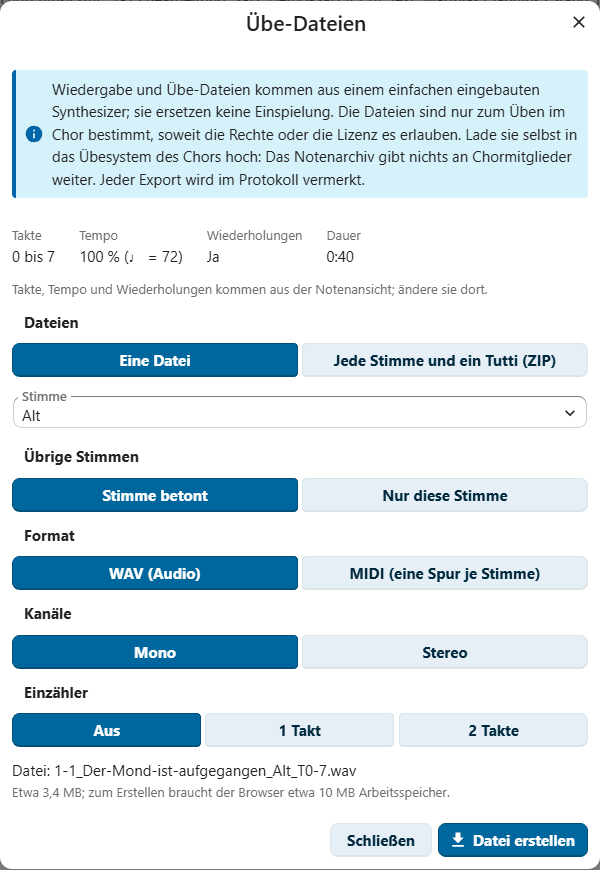
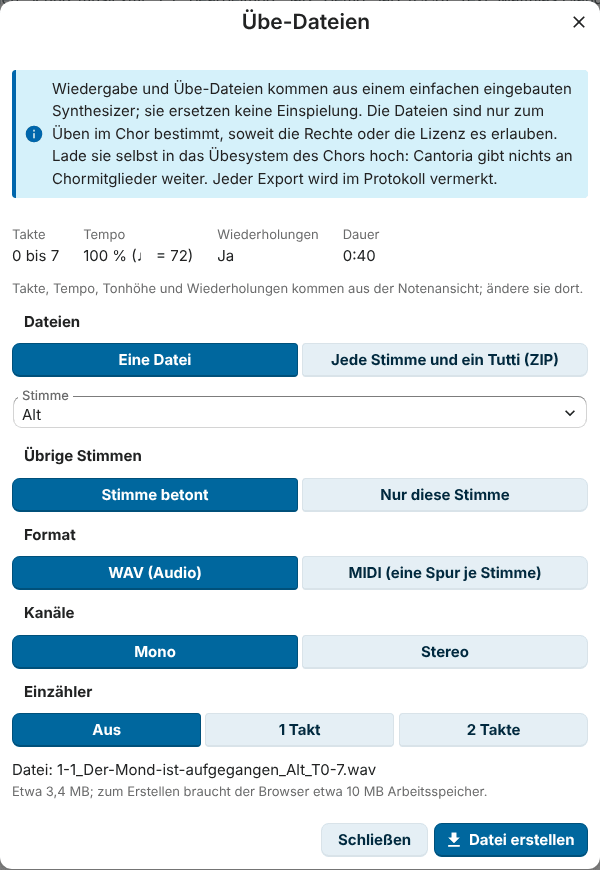
German screenshots in the German guides
The German guides showed most pictures in the English interface. The
screenshot tool now takes a German twin (de/<file>) of every picture of
the English guides, and the German guides link only pictures in de/,
checked by a test.

- shots.mjs: GERMAN_TWINS; recipes no longer depend on English texts
  (files action menu, file picker, print mirror check, missing sheets)
- shoot.mjs: one browser per language so that date fields follow it
  (LANG on Linux); the public pages get the language as Accept-Language;
  the account language is tracked per account, not per tab
- prepare.mjs: records composer and lyricist roles and traditional
  melodies and texts, which protection proposals need since 0.15
- README: modules proposals and statistics for the demo instance

Claude-Session: https://claude.ai/code/session_016xbTVaq2s88uREWxb7DNSP

diff --git a/src/__tests__/docs.test.ts b/src/__tests__/docs.test.ts
@@ -177,6 +177,12 @@ describe('the guides in English and German', () => {
 		expect(imagesPerSection(doc(german))).toEqual(imagesPerSection(doc(english)))
 	})
 
+	it.each([...PAIRS.map(([, german]) => german), 'docs/de/schnellstart.md'])('%s shows only pictures of the German interface', (german) => {
+		// tools/screenshots takes them as de/<file> (GERMAN_TWINS in shots.mjs)
+		const pictures = [...doc(german).matchAll(/!\[[^\]]*\]\(([^)\s]+)\)/g)].map((match) => match[1]!)
+		expect(pictures.filter((picture) => !picture.startsWith('../screenshots/de/'))).toEqual([])
+	})
+
 	it.each(PAIRS)('%s and %s link each other at the top', (english, german) => {
 		expect(doc(english)).toContain(`[Deutsch](${german.replace('docs/', '')})`)
 		expect(doc(german)).toContain(`[English](../${english.replace('docs/', '')})`)

diff --git a/docs/de/benutzerhandbuch.md b/docs/de/benutzerhandbuch.md
@@ -219,11 +219,11 @@ auch Personen aus dem Personenregister. Sie zeigt nur, was deine Rollen sehen
 dürfen: interne Erhaltungskopien nur der Rolle „Bestand“ und der
 Chorleitung, und Konten ohne Rolle im Notenarchiv gar nichts.
 
-![Die Suche von Nextcloud mit dem Begriff „Mond“: unter den Dateien der Bereich „Cantoria“ mit den Exemplaren 1-1 und 3-1 „Der Mond ist aufgegangen“, jedes mit Komposition und Bearbeitung.](../screenshots/unified-search.png)
+![Die Suche von Nextcloud mit dem Begriff „Mond“: unter den Dateien der Bereich „Cantoria“ mit den Exemplaren 1-1 und 3-1 „Der Mond ist aufgegangen“, jedes mit Komposition und Bearbeitung.](../screenshots/de/unified-search.png)
 
 ### Die Angaben zu einem Exemplar
 
-![Die Seitenleiste von Exemplar 1-1 im Reiter „Details“: Titel, Rechtestatus, die Schaltfläche „Noten“, die Zahl der offenen Prüfpunkte, die Reiter Details, Rechte, Fragen, Dateien und Verlauf und die Felder des Werks mit der Schaltfläche „Bearbeiten“.](../screenshots/copy-overview.png)
+![Die Seitenleiste von Exemplar 1-1 im Reiter „Details“: Titel, Rechtestatus, die Schaltfläche „Noten“, die Zahl der offenen Prüfpunkte, die Reiter Details, Rechte, Fragen, Dateien und Verlauf und die Felder des Werks mit der Schaltfläche „Bearbeiten“.](../screenshots/de/copy-overview.png)
 
 Klicke auf eine Zeile, um die Seitenleiste zu öffnen. Ihr Kopf zeigt das
 Rechte-Kennzeichen, den Status, wenn das Exemplar nicht aktiv ist, und
@@ -309,7 +309,7 @@ Chrome und Edge; Firefox druckt ohne).
 
 ### Benachrichtigungen
 
-![Das Benachrichtigungsmenü von Nextcloud mit Benachrichtigungen von Cantoria, zum Beispiel einem Vorschlag, der im Eingang wartet.](../screenshots/notifications.png)
+![Das Benachrichtigungsmenü von Nextcloud mit Benachrichtigungen von Cantoria, zum Beispiel einem Vorschlag, der im Eingang wartet.](../screenshots/de/notifications.png)
 
 Die App benachrichtigt die Personen mit einer Rolle über die
 Benachrichtigungen von Nextcloud, zum Beispiel über eine Rückfrage an deine
@@ -324,7 +324,7 @@ nennt sie alle.
 
 ### Dashboard-Widget
 
-![Das Nextcloud-Dashboard mit dem Widget „Cantoria – fällig“: eine Konzertfrist, die Karten der Startseite mit ihren Zahlen und der Link „Startseite öffnen“.](../screenshots/dashboard-widget.png)
+![Das Nextcloud-Dashboard mit dem Widget „Cantoria – fällig“: eine Konzertfrist, die Karten der Startseite mit ihren Zahlen und der Link „Startseite öffnen“.](../screenshots/de/dashboard-widget.png)
 
 Das Nextcloud-Dashboard kann das Widget **Cantoria – fällig** zeigen:
 dasselbe wie die Startseite (Konzertfristen, die Karten mit ihren Zahlen,
@@ -337,7 +337,7 @@ den Text einer Rückfrage oder den Namen einer Person.
 
 ### Aus der Dateien-App öffnen
 
-![Die App „Dateien“ im Ordner Mappe_2 des Demo-Archivs mit dem geöffneten Aktionsmenü der MusicXML-Datei von Exemplar 2-1; unter den Aktionen „In Cantoria öffnen“.](../screenshots/files-action.png)
+![Die App „Dateien“ im Ordner Mappe_2 des Demo-Archivs mit dem geöffneten Aktionsmenü der MusicXML-Datei von Exemplar 2-1; unter den Aktionen „In Cantoria öffnen“.](../screenshots/de/files-action.png)
 
 Der Archivordner ist ein gewöhnlicher Ordner in Nextcloud. Du findest eine
 Datei also auch in der App **Dateien**. Dateien des Archivordners haben im
@@ -589,7 +589,7 @@ Stimme aus einem mit ihnen geteilten Stück oder Ausschnitt erstellen (siehe
 
 ### Eine Rückfrage stellen oder eine Aufgabe geben
 
-![Der Reiter „Fragen“ von Exemplar 2-1 mit einer offenen Rückfrage an die Chorleitung zu den Takten 5 bis 8 im Tenor II und darunter ein interner Link auf dieselbe Stelle.](../screenshots/task-question.png)
+![Der Reiter „Fragen“ von Exemplar 2-1 mit einer offenen Rückfrage an die Chorleitung zu den Takten 5 bis 8 im Tenor II und darunter ein interner Link auf dieselbe Stelle.](../screenshots/de/task-question.png)
 
 Eine Rückfrage oder Aufgabe gehört immer zu einem Exemplar und kann eine
 Stelle in den Noten nennen: Seite, Takte, Stimme und Strophe.
@@ -719,7 +719,7 @@ sofort für alle.
 > bis 7 von „Der Mond ist aufgegangen“ (1-1) klingen dort als 1–6, 1–5, 7,
 > in einem geteilten Ausschnitt dieser Takte als 1–7.
 
-![Der Dialog „1-1 teilen“ über der Notenansicht: „Wer kann den Link öffnen?“ mit „Chormitglieder“ gewählt, „Was wird geteilt?“ mit „Ganzes Stück“, die Stimme Alt, die Gültigkeit, „Scan (PDF) mitgeben“ angehakt und der Kasten „Das ist beim Öffnen des Links zu sehen“ mit ganzem Stück, hervorgehobener Stimme, Tempo, Gültigkeit, Wiedergabe, Übe-Dateien und Scan (PDF).](../screenshots/share-dialog.png)
+![Der Dialog „1-1 teilen“ über der Notenansicht: „Wer kann den Link öffnen?“ mit „Chormitglieder“ gewählt, „Was wird geteilt?“ mit „Ganzes Stück“, die Stimme Alt, die Gültigkeit, „Scan (PDF) mitgeben“ angehakt und der Kasten „Das ist beim Öffnen des Links zu sehen“ mit ganzem Stück, hervorgehobener Stimme, Tempo, Gültigkeit, Wiedergabe, Übe-Dateien und Scan (PDF).](../screenshots/de/share-dialog.png)
 
 #### Öffentliche Links
 
@@ -748,7 +748,7 @@ verlinkt, falls mitgegeben, den Scan. Läuft der Link ab, wird er widerrufen
 oder ist die Fassung nicht mehr freigegeben, zeigen die Seite und der Scan
 „nicht gefunden“ ohne Grund.
 
-![Die Seite eines öffentlichen Links im öffentlichen Layout von Nextcloud, ohne Anmeldung: Titel und Komposition von „Freude, schöner Götterfunken“, der Hinweis, dass die Wiedergabe von einem einfachen Synthesizer kommt, der Link „Scan (PDF) öffnen“, die Wiedergabe mit Einzähler und Schleife und die Noten des ganzen Stücks.](../screenshots/public-link.png)
+![Die Seite eines öffentlichen Links im öffentlichen Layout von Nextcloud, ohne Anmeldung: Titel und Komposition von „Freude, schöner Götterfunken“, der Hinweis, dass die Wiedergabe von einem einfachen Synthesizer kommt, die Schaltfläche „Scan (PDF) zeigen“, die Wiedergabe mit Einzähler und Schleife und die Noten des ganzen Stücks.](../screenshots/de/public-link.png)
 
 ### Übertragungen prüfen
 
@@ -843,7 +843,7 @@ Exemplar, und der Filter **Offene Prüfpunkte** zeigt die Exemplare, die noch
 eine Entscheidung brauchen. Die zuständigen Rollen werden über neue
 Prüfpunkte benachrichtigt (eine Benachrichtigung je Bericht).
 
-![Die Notenansicht von Exemplar 2-1 mit dem Bereich „Prüfung der Übertragung“: die Liste der offenen Prüfpunkte und, ausgewählt, der Punkt in Takt 7, Tenor II, mit seiner Notiz, den Schaltflächen „Diese Stelle abspielen“ und „In der App korrigieren …“ und den Entscheidungen; links Takt 7 mit hervorgehobenem Tenor II.](../screenshots/review-points.png)
+![Die Notenansicht von Exemplar 2-1 mit dem Bereich „Prüfung der Übertragung“: die Liste der offenen Prüfpunkte und, ausgewählt, der Punkt in Takt 7, Tenor II, mit seiner Notiz, den Schaltflächen „Diese Stelle abspielen“ und „In der App korrigieren …“ und den Entscheidungen; links Takt 7 mit hervorgehobenem Tenor II.](../screenshots/de/review-points.png)
 
 #### Kleine Korrekturen in der App
 
@@ -949,7 +949,7 @@ Gibt es einen neueren Stand als den geltenden, sagt die Liste das.
    als reiner Text ohne Noten. Wähle **Notiz kopieren** und füge sie in eine
    E-Mail oder eine Nachricht ein.
 
-![Der Reiter „Dateien“ von Exemplar 2-2, Abschnitt „Stände dieser Fassung“: Stand 2, eine Korrektur in der App, geltend seit heute, mit Takten, Stimmen und Begründung; Stand 1, der erste erfasste Stand; darunter der Vergleich beider mit einem Unterschied in Takt 3 und die Notiz für Chormitglieder.](../screenshots/revisions.png)
+![Der Reiter „Dateien“ von Exemplar 2-2, Abschnitt „Stände dieser Fassung“: Stand 2, eine Korrektur in der App, geltend seit heute, mit Takten, Stimmen und Begründung; Stand 1, der erste erfasste Stand; darunter der Vergleich beider mit einem Unterschied in Takt 3 und die Notiz für Chormitglieder.](../screenshots/de/revisions.png)
 
 Verglichen werden Noten, Pausen, Notenwerte, Vorzeichen und Text; Layout,
 Dynamik und Bögen nicht. Die Chorleitung und jede andere Archivrolle können
@@ -1061,7 +1061,7 @@ liest nur: **Als gesungen bestätigen** bleibt im Konzert im Archiv.
 
 ### Konzerte im eigenen Kalender
 
-![Der Dialog „In meinen Kalender eintragen“ mit dem Kalender „Persönlich“ des Kontos zur Auswahl und den Hinweisen, dass die Vorbereitungsfristen als ganztägige Einträge dazukommen und ein vorhandener Eintrag aktualisiert und nicht doppelt angelegt wird.](../screenshots/calendar-dialog.png)
+![Der Dialog „In meinen Kalender eintragen“ mit dem Kalender „Choir“ des Kontos zur Auswahl und den Hinweisen, dass die Vorbereitungsfristen als ganztägige Einträge dazukommen und ein vorhandener Eintrag aktualisiert und nicht doppelt angelegt wird.](../screenshots/de/calendar-dialog.png)
 
 In einem Konzert und für alle kommenden Konzerte in der Konzertliste:
 
@@ -1118,7 +1118,7 @@ Betrieb beschrieben.
 
 ### Rechte bestätigen
 
-![Der Reiter „Rechte“ einer Fassung: die Bestätigung mit Status, Datum, Name, Begründung und Beleg, die Freigaben für Chorportal und Druckstation, die für den Chor geltende Fassung und die Lizenzen.](../screenshots/rights-panel.png)
+![Der Reiter „Rechte“ einer Fassung: die Bestätigung mit Status, Datum, Name, Begründung und Beleg, die Freigaben für Chorportal und Druckstation, die für den Chor geltende Fassung und die Lizenzen.](../screenshots/de/rights-panel.png)
 
 Die Rechte gehören zur Fassung, nicht zum Werk. Ein importierter oder
 vorgeschlagener Status bleibt eine Empfehlung, bis die Archivverwaltung ihn
@@ -1203,7 +1203,7 @@ Interne Erhaltungskopien werden nie kopiert. Die Dateien heißen
 `<shelf mark> <title>.pdf`; eine Datei `LIESMICH.txt` im Ordner sagt, wann
 er zuletzt geändert wurde und dass die Noten nur für den Chor sind.
 
-![Die Liste „Druckstation“ mit dem Abschnitt „Spiegelordner für die Druckstation“ und dem Dialog „Vorschau des Abgleichs“: Fünf Dateien würden kopiert, eine würde übersprungen, weil im Zielordner eine Datei dieses Namens liegt, die nicht die App geschrieben hat.](../screenshots/print-mirror-preview.png)
+![Die Liste „Druckstation“ mit dem Abschnitt „Spiegelordner für die Druckstation“ und dem Dialog „Vorschau des Abgleichs“: Fünf Dateien würden kopiert, eine würde übersprungen, weil im Zielordner eine Datei dieses Namens liegt, die nicht die App geschrieben hat.](../screenshots/de/print-mirror-preview.png)
 
 **So startest du den ersten Abgleich** (Rolle „Bestand“):
 
@@ -1283,7 +1283,7 @@ Die Seite lädt nichts von CPDL oder IMSLP; sie verlinkt nur dorthin. Die
 Lebensdaten kommen aus dem Personenregister. Ein Werk verschwindet von der
 Seite, sobald keine Fassung mehr als gemeinfrei bestätigt ist.
 
-![Die öffentliche Repertoireseite im öffentlichen Layout von Nextcloud: drei gemeinfreie Werke, jedes mit Komposition und Text und deren Lebensdaten, der Besetzung und einem Link zur Notenbibliothek CPDL oder IMSLP.](../screenshots/public-repertoire.png)
+![Die öffentliche Repertoireseite im öffentlichen Layout von Nextcloud: drei gemeinfreie Werke, jedes mit Komposition und Text und deren Lebensdaten, der Besetzung und einem Link zur Notenbibliothek CPDL oder IMSLP.](../screenshots/de/public-repertoire.png)
 
 ### Vorschläge im Eingang entscheiden
 
@@ -1337,7 +1337,7 @@ ihn als Prüfpunkte ein, statt ihn als Notendatei zu verknüpfen.
 
 ### Neuzugänge und Etiketten
 
-![Das Formular „Neues Stück erfassen“: Archivmappe und Nummer mit der vorgeschlagenen nächsten freien Nummer, die daraus folgende Signatur, Titel, Komposition, Titelquelle, Zugangsdatum und Herkunft sowie eine Schaltfläche, um eine Datei zu verknüpfen.](../screenshots/accession-form.png)
+![Das Formular „Neues Stück erfassen“: Archivmappe und Nummer mit der vorgeschlagenen nächsten freien Nummer, die daraus folgende Signatur, Titel, Komposition, Titelquelle, Zugangsdatum und Herkunft sowie eine Schaltfläche, um eine Datei zu verknüpfen.](../screenshots/de/accession-form.png)
 
 1. **Neuzugang** → **Neues Stück erfassen**.
 2. Wähle die Archivmappe. Die App schlägt die nächste freie Nummer vor;
@@ -1368,7 +1368,7 @@ Platz, dann **Etiketten drucken**.
 
 ### Personen und Schutzfristen
 
-![Die Liste „Schutzfristen“ des Demo-Archivs: Exemplar 1-7, als gemeinfrei eingetragen, obwohl die dazu erfassten Personen keinen Vorschlag „gemeinfrei“ erlauben, mit Rechtestatus, Vorschlag und Begründung.](../screenshots/protection-terms.png)
+![Die Liste „Schutzfristen“ des Demo-Archivs: Exemplar 1-7, als gemeinfrei eingetragen, obwohl die dazu erfassten Personen keinen Vorschlag „gemeinfrei“ erlauben, mit Rechtestatus, Vorschlag und Begründung.](../screenshots/de/protection-terms.png)
 
 **Personen** ist das Register der Personen aus Komposition, Text,
 Bearbeitung, Übersetzung und Herausgabe mit ihren Lebensdaten, der
@@ -1455,7 +1455,7 @@ Jahren. Der
 Vorschlag bleibt ein Vorschlag: Die Archivverwaltung entscheidet, ob ein
 Sonderfall vorliegt, und bestätigt die Rechte.
 
-![Der Reiter „Rechte“ von Exemplar 1-6 mit dem Abschnitt „Beteiligte Personen und Schutzfrist“: nach den Lebensdaten gemeinfrei, weil der Schutz als wissenschaftliche Ausgabe (§ 70 UrhG), die 1991 erschien, mit Ablauf von 2016 endete.](../screenshots/protection-special-case.png)
+![Der Reiter „Rechte“ von Exemplar 1-6 mit dem Abschnitt „Beteiligte Personen und Schutzfrist“: nach den Lebensdaten gemeinfrei, weil der Schutz als wissenschaftliche Ausgabe (§ 70 UrhG), die 1991 erschien, mit Ablauf von 2016 endete.](../screenshots/de/protection-special-case.png)
 
 ### Rechtevermerke in MusicXML-Dateien
 
@@ -1471,12 +1471,12 @@ Vermerk ist eine Angabe aus der Datei, keine Entscheidung:
   leeres Feld **Lizenz**. Nimm ihn erst an, nachdem du die Rechte selbst
   geprüft hast.
 
-![Der Reiter „Dateien“ von Exemplar 1-1: die MusicXML-Datei mit der Markierung „Nicht geprüft“ und dem aus der Datei übernommenen Rechtevermerk „Melodie und Text gemeinfrei. Satz: CC0 1.0“, mit dem Hinweis, dass er keinen Rechtestatus ändert.](../screenshots/rights-notice.png)
+![Der Reiter „Dateien“ von Exemplar 1-1: die MusicXML-Datei mit der Markierung „Nicht geprüft“ und dem aus der Datei übernommenen Rechtevermerk „Melodie und Text gemeinfrei. Satz: CC0 1.0“, mit dem Hinweis, dass er keinen Rechtestatus ändert.](../screenshots/de/rights-notice.png)
 
 
 ### Werke zusammenführen und Exemplare verschieben
 
-![Die Ansicht „Zusammenführen“ mit den drei doppelt erfassten Werkpaaren des Demo-Archivs: jedes Paar mit seinen Exemplaren, der Wahl des bleibenden Werks und der Schaltfläche zum Zusammenführen.](../screenshots/merge-proposals.png)
+![Die Ansicht „Zusammenführen“ mit den drei doppelt erfassten Werkpaaren des Demo-Archivs: jedes Paar mit seinen Exemplaren, der Wahl des bleibenden Werks und der Schaltfläche zum Zusammenführen.](../screenshots/de/merge-proposals.png)
 
 Führt das Werkverzeichnis dasselbe Werk zweimal, schlägt **Zusammenführen**
 die Werke mit gleichem Titel und gleichem Nachnamen in der Komposition vor:
@@ -1558,7 +1558,7 @@ festgelegt hat.
    geändert haben.
 3. **Drucken** druckt den Vergleich auf A4.
 
-![Die Ansicht „Jahresstände“: was ein neuer Jahresstand wohin schreibt, der Schalter für den automatischen Jahresstand im Januar, zwei Jahresstände von 2026 und ihr Vergleich: eine Fassung mit hinzugekommener Bestätigung und eine neue Lizenz.](../screenshots/annual-snapshots.png)
+![Die Ansicht „Jahresstände“: was ein neuer Jahresstand wohin schreibt, der Schalter für den automatischen Jahresstand im Januar, zwei Jahresstände von 2026 und ihr Vergleich: eine Fassung mit hinzugekommener Bestätigung und eine neue Lizenz.](../screenshots/de/annual-snapshots.png)
 
 ## Für den Betrieb
 
@@ -1602,7 +1602,7 @@ der höchsten vergebenen Nummer, die kein Exemplar hat, z. B.
 Neuzugang, um Exemplare zu finden, die nie erfasst wurden oder verloren
 gegangen sind.
 
-![Die Ansicht „Signaturlücken“ des Demo-Archivs: je Archivmappe die höchste Nummer, die Exemplare und die Nummern ohne Exemplar; in Archivmappe 4 die Signatur 4-4, die nur ein Dateiname verwendet.](../screenshots/shelfmark-gaps.png)
+![Die Ansicht „Signaturlücken“ des Demo-Archivs: je Archivmappe die höchste Nummer, die Exemplare und die Nummern ohne Exemplar; in Archivmappe 4 die Signatur 4-4, die nur ein Dateiname verwendet.](../screenshots/de/shelfmark-gaps.png)
 
 1. Öffne **Signaturlücken** (bei der Inventur unter **Bestandspflege**).
 2. Prüfe jede Lücke am Regal. Ein Hinweis unter den Lücken nennt Nummern,
@@ -1623,7 +1623,7 @@ es; Chorleitung und Vorstand lesen es. Chormitglieder und Werkzeuge sehen es
 nie. Die Administration schaltet es ein (Modul „Mappenbuch“); es gehört zur
 Voreinstellung „Vollständig“.
 
-![Das Mappenbuch mit drei Mappen: Mappe 12 seit dem 14.09.2026 bei einer erfundenen Person, die Mappen 14 und 21 verfügbar, Mappe 21 abgenutzt mit einem fehlenden Blatt und dem Hinweis, dass sie ein im Werkverzeichnis ausgemustertes Exemplar enthält.](../screenshots/folder-book.png)
+![Das Mappenbuch mit drei Mappen: Mappe 12 seit dem 14.09.2026 bei einer erfundenen Person, die Mappen 14 und 21 verfügbar, Mappe 21 abgenutzt mit einem fehlenden Blatt und dem Hinweis, dass sie ein im Werkverzeichnis ausgemustertes Exemplar enthält.](../screenshots/de/folder-book.png)
 
 Das Mappenbuch hält nur fest, wer welche Mappe hat. Anwesenheit und die
 Ausgabe am Eingang an Probenabenden gehören nicht zur App.
@@ -1662,7 +1662,7 @@ Zwei Mappen im Dienst können nicht dieselbe Nummer oder Bezeichnung haben.
 3. **Zurücknehmen**. Zustand und fehlende Blätter gelten nun für die Mappe;
    die Mappe ist wieder verfügbar.
 
-![Der Dialog „Mappe 12 zurücknehmen“: seit wann und bei wem sie ausgegeben war, der Tag der Rückgabe, der gewählte Zustand „abgenutzt“, die fehlenden Blätter und eine Notiz.](../screenshots/folder-take-back.png)
+![Der Dialog „Mappe 12 zurücknehmen“: seit wann und bei wem sie ausgegeben war, der Tag der Rückgabe, der gewählte Zustand „abgenutzt“, die fehlenden Blätter und eine Notiz.](../screenshots/de/folder-take-back.png)
 
 #### Eine Mappe außer Dienst stellen
 
@@ -1725,7 +1725,7 @@ beantwortet die Aufgaben, die an sie gerichtet sind. Sie ändert nichts.
 
 ### Auswertungen und Jahresbericht
 
-![Die Auswertungen des Demo-Archivs: der Zeitraum, Links zu den Abschnitten Bestand, Rechte, Repertoire und Aufführungen, Pflege und Jahresbericht sowie die Tabelle der Kennzahlen mit einem Balken neben jeder Zahl.](../screenshots/statistics.png)
+![Die Auswertungen des Demo-Archivs: der Zeitraum, Links zu den Abschnitten Bestand, Rechte, Repertoire und Aufführungen, Pflege und Jahresbericht sowie die Tabelle der Kennzahlen mit einem Balken neben jeder Zahl.](../screenshots/de/statistics.png)
 
 **Auswertungen** (unter *Archiv*) steht jeder Archivrolle offen. Wähle den
 Zeitraum mit **Ab Jahr** und **Bis Jahr** (Voreinstellung: die letzten zehn
@@ -1753,7 +1753,7 @@ Chormitgliedern und keine Kontonamen; interne Erhaltungskopien werden
 gezählt, aber nie mit Titel oder Signatur aufgeführt. **Drucken** druckt die
 Übersicht, **Auswertungen als CSV** lädt alle Tabellen herunter.
 
-![Der Jahresbericht eines Jahres: das Jahr in Zahlen, die Konzerte mit Datum, Ort, Status und Zahl der Stücke sowie die Neuzugänge.](../screenshots/annual-report.png)
+![Der Jahresbericht eines Jahres: das Jahr in Zahlen, die Konzerte mit Datum, Ort, Status und Zahl der Stücke sowie die Neuzugänge.](../screenshots/de/annual-report.png)
 
 Der **Jahresbericht** am Ende der Seite fasst ein Jahr für Vorstand und
 Mitgliederversammlung zusammen: Konzerte mit Datum und Stücken, Neuzugänge,
@@ -1783,7 +1783,7 @@ Stimme, der Notiz und wie lange jedes gilt, ob es sich abspielen lässt
 (**Abspielen: ja** oder **Abspielen: nein**) und ob der Scan dabei ist
 (**mit Scan (PDF)**).
 
-![Die Seite „Mit mir geteilt“ eines Chormitglieds: das ganze Stück „Der Mond ist aufgegangen“ mit der Notiz der Chorleitung, der Gültigkeit, dem Link „Scan (PDF) öffnen“, der Wiedergabe mit Einzähler und Schleife und den Noten mit hervorgehobenem Alt.](../screenshots/shared-with-me.png)
+![Die Seite „Mit mir geteilt“ eines Chormitglieds: das ganze Stück „Der Mond ist aufgegangen“ mit der Notiz der Chorleitung, der Gültigkeit, der Schaltfläche „Scan (PDF) zeigen“, der Wiedergabe mit Einzähler und Schleife und den Noten mit hervorgehobenem Alt.](../screenshots/de/shared-with-me.png)
 
 1. Wähle ein Stück in der Liste (ein Link, den du bekommen hast, öffnet es
    direkt). Die Noten erscheinen unter der Liste, auf einem breiten

diff --git a/docs/de/administrationshandbuch.md b/docs/de/administrationshandbuch.md
@@ -129,7 +129,7 @@ ist ein Wechsel der Gruppenmitgliedschaft.
 4. Prüfe den Zugriff auf den Archivordner: Auch Konten, die neu eine Rolle
    haben, brauchen ihn ([Abschnitt 3](#prüfen-wer-den-archivordner-öffnen-kann)).
 
-![Der Abschnitt „Rollen und Gruppen“ unter Verwaltungseinstellungen → Cantoria: jede Rolle mit den ihr zugeordneten Gruppen und einer kurzen Beschreibung, zum Beispiel die Gruppe „Music librarians“ für die Rolle „Bestand (Archivverwaltung)“ und „Choir members“ für die Rolle „Chormitglieder (nur geteilte Ausschnitte)“, und die Schaltfläche „Rollen speichern“.](../screenshots/settings-roles.png)
+![Der Abschnitt „Rollen und Gruppen“ unter Verwaltungseinstellungen → Cantoria: jede Rolle mit den ihr zugeordneten Gruppen und einer kurzen Beschreibung, zum Beispiel die Gruppe „Music librarians“ für die Rolle „Bestand (Archivverwaltung)“ und „Choir members“ für die Rolle „Chormitglieder (nur geteilte Ausschnitte)“, und die Schaltfläche „Rollen speichern“.](../screenshots/de/settings-roles.png)
 
 Die Seite **Verwaltungseinstellungen → Cantoria** enthält alle
 Einstellungen der App: Archivordner, Rollen und Gruppen, Zugriff auf den
@@ -281,7 +281,7 @@ Ausnahme: Um Noten zu öffnen, braucht auch sie Zugriff auf den Ordner.
 Zugriff prüfen** sieht sich jedes Mitglied der Rollengruppen und die
 Administration ohne Rolle an:
 
-![Die Zugriffsprüfung: je Rolle und Gruppe, wie viele Konten den Archivordner öffnen können, die Konten, die es nicht können, und was zu tun ist.](../screenshots/admin-settings.png)
+![Die Zugriffsprüfung: je Rolle und Gruppe, wie viele Konten den Archivordner öffnen können, die Konten, die es nicht können, und was zu tun ist.](../screenshots/de/admin-settings.png)
 
 - Für jede Rolle und Gruppe sagt sie in Worten und mit einem Symbol, ob jedes
   geprüfte Mitglied den Ordner öffnen kann, und nennt die Konten, die es
@@ -311,7 +311,7 @@ höchstens 20 MB groß sein.
    → **Werkverzeichnis importieren** → **CSV-Datei wählen …**. Die App macht
    sofort einen **Probelauf**; noch wird nichts gespeichert.
 
-   ![Der Bericht eines wiederholten Probelaufs: „Probelauf – es wurde noch nichts geändert“, 23 Zeilen, keine neuen oder geänderten Exemplare, 7 mit MusicXML, 1 interne Erhaltungskopie, die Verteilung von Rechtestatus, Repertoire und Veröffentlichung und eine Warnung.](../screenshots/import-report.png)
+   ![Der Bericht eines wiederholten Probelaufs: „Probelauf – es wurde noch nichts geändert“, 23 Zeilen, keine neuen oder geänderten Exemplare, 7 mit MusicXML, 1 interne Erhaltungskopie, die Verteilung von Rechtestatus, Repertoire und Veröffentlichung und eine Warnung.](../screenshots/de/import-report.png)
 
    Das Bild zeigt die Werkverzeichnisdatei des Demo-Archivs, ein zweites Mal
    importiert: Alle 23 Zeilen sind unverändert, und die Warnung sagt, dass
@@ -326,7 +326,7 @@ höchstens 20 MB groß sein.
 4. **Dateiabgleich** → **Dateiabgleich starten** verknüpft die Dateien des
    Archivordners mit den Exemplaren.
 
-   ![Der Bericht des Dateiabgleichs: Dateien mit einer Signatur im Namen, mit einem Exemplar verknüpfte Dateien, Dateien nach Art, eine Datei, die sich nicht zuordnen ließ, und ein Exemplar ohne Datei.](../screenshots/file-sync-report.png)
+   ![Der Bericht des Dateiabgleichs: Dateien mit einer Signatur im Namen, mit einem Exemplar verknüpfte Dateien, Dateien nach Art, eine Datei, die sich nicht zuordnen ließ, und ein Exemplar ohne Datei.](../screenshots/de/file-sync-report.png)
 
    Der Bericht listet Dateien, deren Signatur nicht im Werkverzeichnis
    steht, Exemplare ohne Datei und die übersprungenen Ordner. Dateien werden
@@ -373,7 +373,7 @@ teilt; die Einstellungsseite zeigt seinen Pfad. Die App schreibt:
   ihre Token** darin: Nach einer Wiederherstellung sind sie widerrufen und
   müssen neu geteilt werden.
 
-![Die Bereiche zur Sicherung in der Archivverwaltung: eine vollständige Sicherung jetzt ablegen, die vollständige Sicherung als JSON herunterladen und eine Sicherung in ein leeres Werkverzeichnis wiederherstellen.](../screenshots/backup-restore.png)
+![Die Bereiche zur Sicherung in der Archivverwaltung: eine vollständige Sicherung jetzt ablegen, die vollständige Sicherung als JSON herunterladen und eine Sicherung in ein leeres Werkverzeichnis wiederherstellen.](../screenshots/de/backup-restore.png)
 
 In der **Archivverwaltung** schreibt **Vollständige Sicherung jetzt ablegen**
 dieselben drei Dateien sofort, zum Beispiel vor größeren Änderungen, und
@@ -460,7 +460,7 @@ Die App benachrichtigt die Mitglieder der Gruppen einer Rolle über die
 Benachrichtigungen der Nextcloud. Eine Benachrichtigung wird zurückgezogen,
 wenn die Sache erledigt ist.
 
-![Das Benachrichtigungsmenü der Nextcloud mit Benachrichtigungen von Cantoria, zum Beispiel einem Vorschlag, der im Eingang wartet.](../screenshots/notifications.png)
+![Das Benachrichtigungsmenü der Nextcloud mit Benachrichtigungen von Cantoria, zum Beispiel einem Vorschlag, der im Eingang wartet.](../screenshots/de/notifications.png)
 
 | Benachrichtigung | An | Wann |
 |---|---|---|
@@ -1126,7 +1126,7 @@ den Archivordner
 (Leitlinie 4 der [Roadmap](../../ROADMAP.md)). Es gehört zu keiner
 Voreinstellung; schalte es bewusst ein.
 
-![Der Abschnitt „Druckstation: Spiegelordner“ unter Verwaltungseinstellungen → Cantoria: was der Spiegelordner tut, die Warnung, dass alle, die ihn öffnen können, die Scans drucken können, der aktuelle Zielordner und, nach der Wahl eines Ordners, die Meldung, dass er passt, mit den Schaltflächen zum Abbrechen und Speichern.](../screenshots/settings-print-mirror.png)
+![Der Abschnitt „Druckstation: Spiegelordner“ unter Verwaltungseinstellungen → Cantoria: was der Spiegelordner tut, die Warnung, dass alle, die ihn öffnen können, die Scans drucken können, der aktuelle Zielordner und, nach der Wahl eines Ordners, die Meldung, dass er passt, mit den Schaltflächen zum Abbrechen und Speichern.](../screenshots/de/settings-print-mirror.png)
 
 So richtest du es ein:
 

diff --git a/tools/screenshots/README.md b/tools/screenshots/README.md
@@ -9,7 +9,11 @@ the public repertoire page are taken without signing in.
 - **Window:** fixed at 1600 × 1000 pixels, device scale 1.
 - **Themes:** light, and dark where the file name says so (`*-dark.png`).
 - **Languages:** English; the pictures in `de/` use the German interface in
-  informal address.
+  informal address. Every picture of the English guides has a German twin
+  `de/<file>` for the German guides (`GERMAN_TWINS` in `shots.mjs`). Each
+  language has its own browser, so that date fields follow it too (on Linux
+  through the environment variable `LANG`); pages without signing in get
+  the language as `Accept-Language`.
 - **Stable pictures:** animations and transitions are off, reduced motion
   is requested, the text cursor and toasts are hidden, and the focus ring
   and the mouse pointer are moved out of the way.
@@ -78,8 +82,8 @@ tests.
    `php occ files:scan --path=/demo-librarian/files/Cantoria-Demo`, or
    upload the folder in the Files app.
 5. Roles, archive folder and the modules of the newer pictures (sharing,
-   folder book, mirror folder of the print station, annual snapshots; they
-   are part of no preset or not of Standard):
+   folder book, mirror folder of the print station, annual snapshots,
+   proposals, statistics; they are part of no preset or not of Standard):
 
    ```sh
    php occ cantoria:setup demo-librarian Cantoria-Demo \
@@ -87,7 +91,7 @@ tests.
      -r conductor=demo-conductors -r contributor=demo-tools -r reader=demo-board \
      -r member=demo-members
    php occ cantoria:modules enable member_links member_practice_audio public_links \
-     public_repertoire folder_book print_mirror annual_snapshot
+     public_repertoire folder_book print_mirror annual_snapshot proposals statistics
    ```
 
 6. Import the catalog and link the files:
@@ -103,9 +107,10 @@ tests.
 Everything else is done by `--prepare` through the app's own API, as the
 account that may do each step: it shares the demo folder read-only with the
 conductors and the administrators, imports persons, performances and song
-lists, confirms rights, adds licenses, chooses valid versions, asks
-questions, makes a proposal and an internal link, and plans the concert
-"Adventskonzert 2026". For the newer pictures it releases 1-1 for the
+lists, confirms rights, adds licenses, chooses valid versions, records the
+roles of the persons involved (composer, lyricist) and traditional melodies
+and texts, asks questions, makes a proposal and an internal link, and plans
+the concert "Adventskonzert 2026". For the newer pictures it releases 1-1 for the
 singers' portal and 1-2 for publication, shares both as a whole piece with
 the scan (PDF), with a link for choir members and a public link, puts three
 works on the public repertoire page, creates three folders of the folder

diff --git a/docs/screenshots/README.md b/docs/screenshots/README.md
@@ -72,8 +72,28 @@ The App Store shows the files marked with a number, in this order
 
 ## German interface (informal)
 
-Used in [`docs/de/schnellstart.md`](../de/schnellstart.md) and
-[`docs/de/benutzerhandbuch.md`](../de/benutzerhandbuch.md).
+The German guides show only these pictures (checked by
+`src/__tests__/docs.test.ts`): [`docs/de/schnellstart.md`](../de/schnellstart.md),
+[`docs/de/benutzerhandbuch.md`](../de/benutzerhandbuch.md) and
+[`docs/de/administrationshandbuch.md`](../de/administrationshandbuch.md).
+They were taken in Nextcloud 33 with app version 0.16.1.
+
+Every picture of the English guides also exists as `de/<file>` in the German
+interface and shows the same as `<file>` above: `de/accession-form.png`,
+`de/admin-settings.png`, `de/annual-report.png`, `de/annual-snapshots.png`,
+`de/backup-restore.png`, `de/calendar-dialog.png`, `de/copy-overview.png`,
+`de/dashboard-widget.png`, `de/file-sync-report.png`, `de/files-action.png`,
+`de/folder-book.png`, `de/folder-take-back.png`, `de/import-report.png`,
+`de/merge-proposals.png`, `de/notifications.png`, `de/print-mirror-preview.png`,
+`de/protection-special-case.png`, `de/protection-terms.png`, `de/public-link.png`,
+`de/public-repertoire.png`, `de/review-points.png`, `de/revisions.png`,
+`de/rights-notice.png`, `de/rights-panel.png`, `de/settings-print-mirror.png`,
+`de/settings-roles.png`, `de/share-dialog.png`, `de/shared-with-me.png`,
+`de/shelfmark-gaps.png`, `de/statistics.png`, `de/task-question.png` and
+`de/unified-search.png`. The texts the demo writes into the catalog (reasons,
+notes, questions) stay English in them.
+
+Pictures only in German:
 
 | File | Shows |
 |---|---|

diff --git a/CHANGELOG.md b/CHANGELOG.md
@@ -10,6 +10,13 @@ All notable changes to this app are documented in this file. The format follows
 
 ## [Unreleased]
 
+### Changed
+
+- The German guides show every screenshot in the German interface
+  (`docs/screenshots/de/`); `tools/screenshots` takes a German twin of each
+  picture of the English guides, and a test keeps the German guides free of
+  English pictures.
+
 ## [0.16.1] - 2026-10-29
 
 ### Changed
